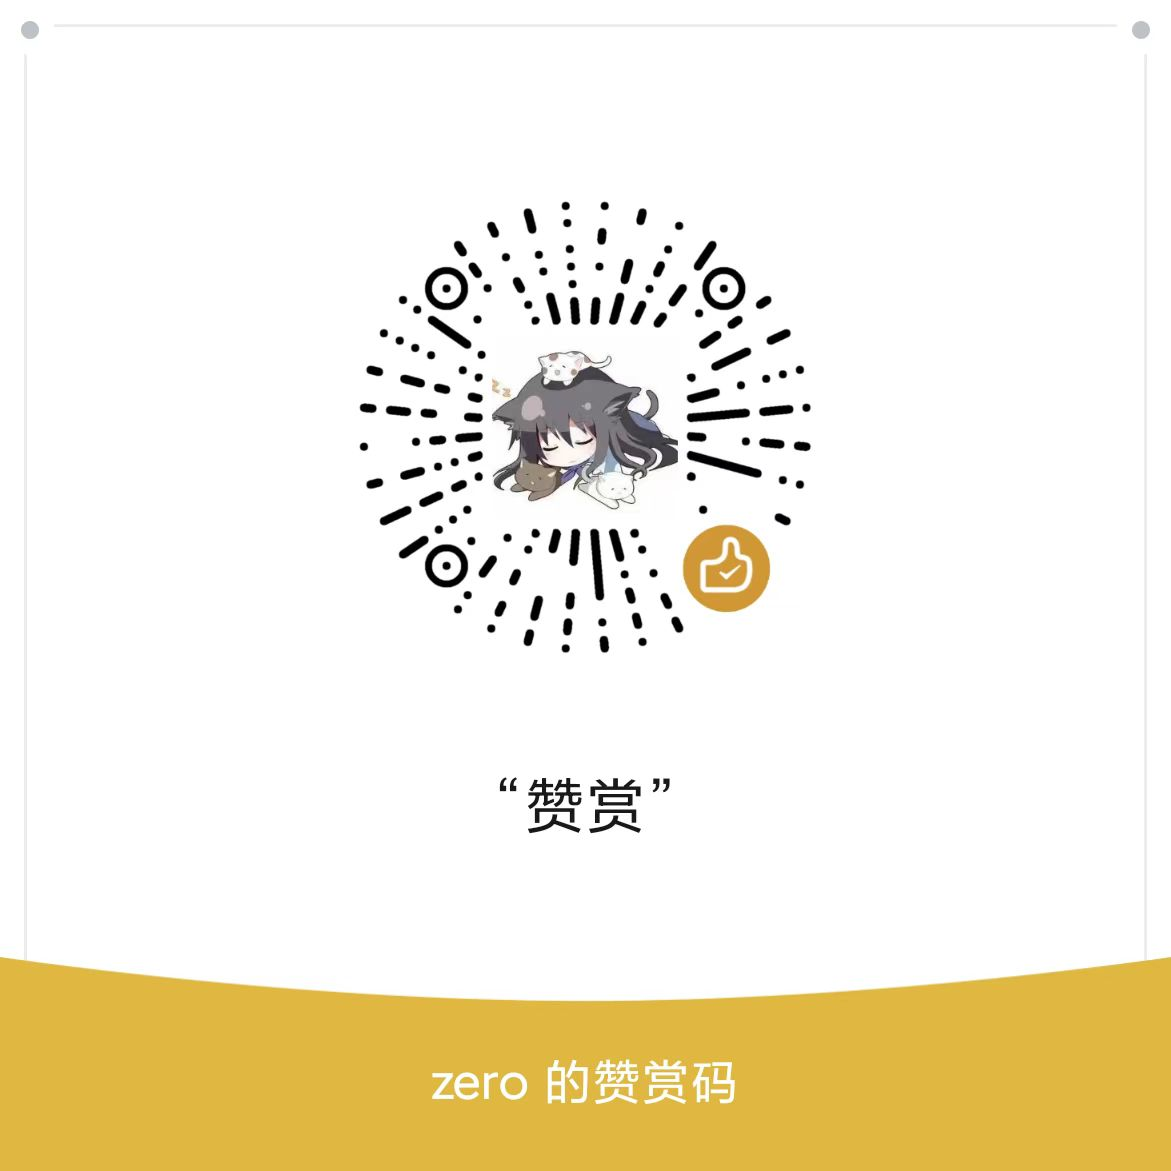
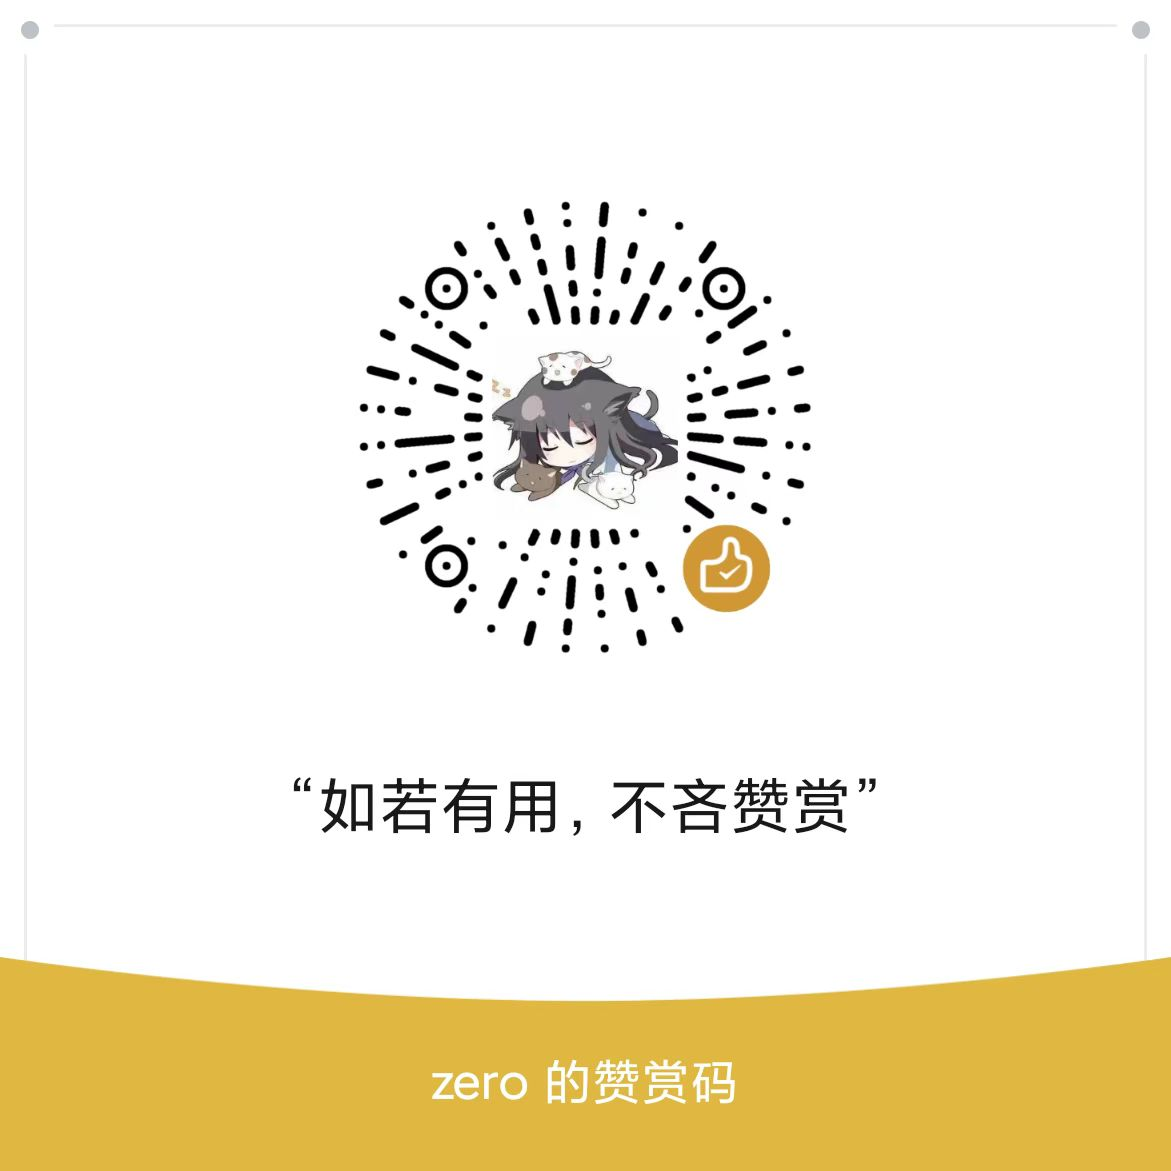
👋update readme

diff --git a/README_US.md b/README_US.md
@@ -19,20 +19,10 @@ cd mygeektime/docker
 
 # Apple M1 , M2 modify docker-compose.yml 35 line use zkep/mygeektime:mac-m
 
-# download default data
-wget https://github.com/zkep/mygeektime/releases/download/v0.0.1/tasks.sql -O mysql/init/tasks.sql
-
 docker-compose up -d
 ```
 
 browser web url:  http://127.0.0.1:8090
-
-
-#### thanks
-* [gin](https://github.com/gin-gonic/gin)
-* [amis](https://github.com/baidu/amis)
-* [FFmpeg](https://ffmpeg.org/download.html)
-
 
 
 #### WeChat Sponsor

diff --git a/README.md b/README.md
@@ -45,7 +45,7 @@ docker-compose up -d
 
 如若有用，不吝赞赏👏
 
-赞赏¥50并留言<b>邮箱账号</b>，将回赠<b>完整数据库</b>
+赞赏并留言<b>邮箱账号</b>，将回赠<b>数据库</b>
 
 <picture>
   <img
